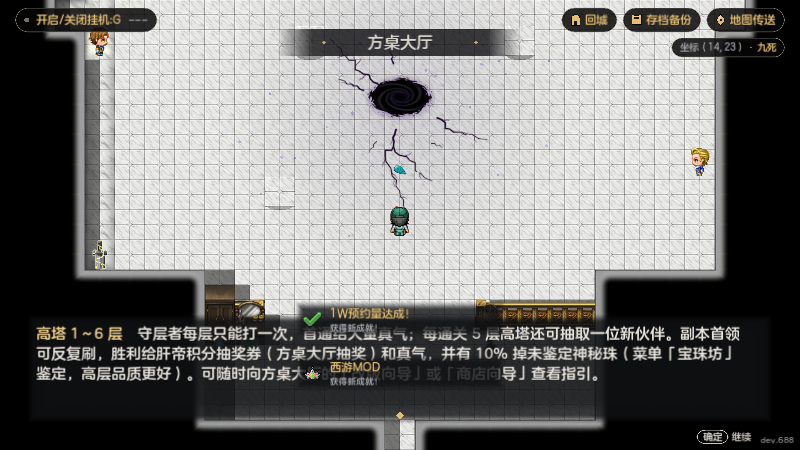
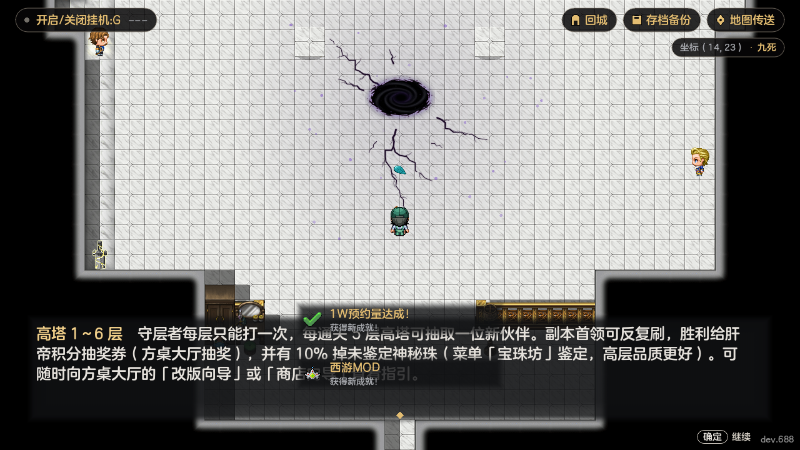
T139: 删改EV071与进大厅里程碑真气道法说法（D131烙印取代真气）
执行者: 小A
核查: 待审查

diff --git a/00_项目管理/交付/luiluu_xa-t139-hall-residue.md b/00_项目管理/交付/luiluu_xa-t139-hall-residue.md
@@ -7,18 +7,17 @@
 
 ## 2026-11-17 【小A·未经交叉核查】T139 天启篇大厅残句清理：EV071 旧说明与进大厅里程碑（dev.待定）
 
-- **依据与口径**：承接 T133（`dev.687`）核查清单与协调回复（`msg_0b2b9529d322`），清理 `Map004` 事件 `71`（改版向导）在天启篇存档下遗留的西游与旧版过时说法，并为 `XGuide` 进大厅区段里程碑补出天启篇版本；不触碰牢妲 EV062、烙印文本与 `XGuide.advice_texts`，西游存档与原版参照表 `guide_atlas.json` 保持原样。
+- **依据与口径**：承接 T133（`dev.687`）核查清单、协调回复（`msg_0b2b9529d322`）及追加口径（`task_9e92fbccbc13`／D131：天启篇中真气已被「烙印」取代且烙印尚在分批制作，EV071 与 `guide.gd` 里讲真气乘伤害、境界、闭关突破、领属性等句子直接删除或改为不点名泛称，不单写一份真气现状说明，道法也不单独介绍），清理 `Map004` 事件 `71`（改版向导）在天启篇存档下遗留的西游与旧版过时说法，并为 `XGuide` 进大厅区段里程碑补出天启篇版本；不触碰牢妲 EV062、烙印文本与 `XGuide.advice_texts`，西游存档与原版参照表 `guide_atlas.json` 保持原样。
 - **代码开关对照判断**（拿不准系统按代码实际开关落笔）：
-  - `XZhenqi.APPLY_TO_DAMAGE == false`：当前版本真气不直接乘算伤害，仅用于闭关突破并领取属性与道法奖励（去掉所有「真气乘算伤害／×√(1＋真气÷10)／真气打穿固定减伤」）。
-  - `XTianqiBrand.ENABLED == false`、`XTianqiBase.PHASE4 == false`：未开启烙印与 D129 加伤，本文案不提前写入。
+  - **D131（烙印取代真气）与 `XTianqiBrand.ENABLED == false`／`XTianqiBase.PHASE4 == false`**：真气已被「烙印」取代（烙印开关尚关且在分批制作中）；按追加口径，EV071 与 `guide.gd` 里原讲真气、境界、闭关突破、领属性／道法、本命兵／兵仙／神兵试炼的条目全部删掉或替换为不点名泛称（「阶段成长」「试炼」「专精解锁」等），既不写过时的真气现状说明，也不提前写入未开启的烙印与 D129 加伤。
   - `XPower.SHOW_POWER_UI == false`、`XTianqiGear.ENABLED == true`（`ARTIFACT_CAP == true`）、`XTianqiAffixRoll.SKIP_HIGH_ROWS == true`：隐藏人物／装备战力评分，改为 13 个装备栏与神器栏（神武改为神器；心之钢／狂妄有效成长上限 10 阶／头顶上限 +300%，黎明—破晓与禁锢之皇冕不可装备），不掷出原版随机词缀行与神话／混沌神话词条。
   - `XTianqiLedger.NO_PILLS == true`、`XFabaoFeed.NO_PILLS == true`：下架且禁用原版属性丹、淬元丹与法宝经验丹，通用法宝改为喂食装备升级。
   - `XTianqiSkills.ids`（`skill_rework.json`）：五只猫猫、可莉、花橙、落芸、利姆露、初代萌王、赛维里昂圣剑、人形自动人偶为「不开放」；五条悟须先解锁「最强之名」；苍龙破晓、徐凤年、胡桃按各自档位开放，云裳属于「强者」（不计入超强者名单）。
   - `XEnemy.boss_attribute_rate`／`XTianqiHorsemen`：首领按前 4 格实际出战超强者人数 `N` 提八项 `1＋20%×N`、偶数回合霸体另乘 `1＋20%×N`（助力位与后备不计入）；36 层四骑士不吃霸体改用阶段规则，31～36 层其余首领照常。
   - `XTextFix`：运行期已将 `Map004` 原文 `Boss` 预先替换为 `首领`，规则匹配与展示以 `XDB.map(4)` 运行态为准；所有 `CHOICE_RULES[71]` 严格保持选项数量与下标不变（`402` 分支零改动）。
 - **玩家可见**：
-  1. 方桌大厅「改版向导」（EV071）在天启篇存档下，33 处对话与 6 处选单已按天启篇当前机制改写或清理，不再出现 `Boss`、`神武`、`12.27 移植`、`×0.01`、`真气乘算伤害`、`境界／大境界`、`战力（旧入口名）`、`赌场`、`用丹` 等过时残句。
-  2. 首次进入方桌大厅（及后续进新层段）弹出的区段里程碑在天启篇存档下标题改为 `高塔 N～M 层`（原 `神魔之塔` 仅留西游档），并更新 `a`～`g` 七段说明（含每 5 层抽角色、通用祝福石、秘境被动书与心之钢／狂妄、固定减伤、34～36 层与号卷）；西游档完全不变。
+  1. 方桌大厅「改版向导」（EV071）在天启篇存档下，对话与选单已按天启篇当前机制改写或清理，不再出现 `Boss`、`神武`、`12.27 移植`、`×0.01`、`真气`、`道法`、`闭关`、`境界／大境界`、`本命兵／兵仙／神兵试炼`、`战力（旧入口名）`、`赌场`、`用丹` 等过时残句。
+  2. 首次进入方桌大厅（及后续进新层段）弹出的区段里程碑在天启篇存档下标题改为 `高塔 N～M 层`（原 `神魔之塔` 仅留西游档），并更新 `a`～`g` 七段说明（含每 5 层抽角色、阶段成长入口与试炼、通用祝福石、秘境被动书与心之钢／狂妄、固定减伤、34～36 层与号卷，不含真气／道法／闭关／本命兵说明）；西游档完全不变。
 - **EV071 改前 → 改后对照**（`modes/xiyou/core/tianqi_hall_text.gd`，仅对 `XTianqi.active` 生效，开关 `XTianqiHallText.ENABLED`）：
 
 | 节点 | 改前（T133 后运行态） | 改后（T139） |
@@ -44,42 +43,50 @@
 | MSG [290] | ……不套用全部普通战力构成…… | ……不套用全部常规增伤乘区…… |
 | MSG [298] | 首领按入场时\c[4]实际出战的超强者人数N\c[0]提高难度：八项属性全程乘\c[4]1＋20%×N\c[0]。后备不计入…… | 首领按入场时前4格\c[4]实际出战的超强者人数N\c[0]提高难度：八项属性全程乘\c[4]1＋20%×N\c[0]。第5格助力位与后备均不计入…… |
 | MSG [300] | 第2、4、6…回合进入\c[4]霸体\c[0]，免疫控制与技能封印；本回合首领伤害另乘1＋20%×N…… | 一般首领第2、4、6…回合进入\c[4]霸体\c[0]，免疫控制与技能封印，且该回合伤害另乘\c[4]1＋20%×N\c[0]（N为0时仍有霸体、无额外倍率）；36层四骑士不吃霸体、改用各自阶段规则，31～36层其余首领照常。 |
-| CHOICE [370] | 项2 `赌场与丹药` | 项2 `抽奖与法宝喂养` |
-| MSG [378] | 真气路线系数：……真气（伤害加成）和境界奖励按「修行」页实际数值查看。 | 天启篇真气系数：……积攒的真气用于闭关突破、领取属性与道法奖励（当前不直接乘算伤害）。 |
-| MSG [382] | 真气达到大境界瓶颈……打开菜单\c[4]真气\c[0]挑战心魔或天劫…… | 真气攒至突破瓶颈后……打开菜单\c[4]真气\c[0]或大厅「闭关」挑战瓶颈之战…… |
-| MSG [384] | 突破按境界获得固定奖励和自选奖励…… | 每次突破都会按阶段获得固定奖励与自选奖励…… |
-| MSG [396] | ……没有到境界瓶颈，也可按菜单条件参加试炼。 | ……未到突破瓶颈时，也可按菜单条件参加试炼。 |
+| CHOICE [370] | `['真气与闭关', '种族祝福', '赌场与丹药', '换装与技能信息', '测试模式与GM工具', '返回']` | `['成长与试炼', '种族祝福', '抽奖与法宝喂养', '换装与技能信息', '测试模式与GM工具', '返回']` |
+| CHOICE [372] | `['积累与查看', '闭关与奖励', '本命兵与灵根', '神兵试炼', '返回']` | `['成长查看说明', '阶段挑战说明', '专精解锁说明', '武器试炼说明', '返回']` |
+| MSG [374] | 菜单\c[4]真气\c[0]可操作突破；状态界面「修行」页看挑战评估……真气由胜利…… | 角色的阶段成长、挑战评估、必备属性与建议，均可在状态界面「修行」与「修行·详细」页查看。 |
+| MSG [376] | 守层者每层只能打一次；首通真气为层数×10×路线系数……副本首领、神兵试炼可反复刷…… | 守层者每层仅可首通一次，副本首领与各类试炼均可反复挑战，对应成长收益随当前难度档位结算。 |
+| MSG [378] | 真气路线系数：……真气（伤害加成）和境界奖励按「修行」页实际数值查看。 | 天启篇按\c[4]寻常、艰险、九死、炼狱、证道\c[0]五档难度推进；长线阶段养成体系仍在迭代替换中，具体以界面实际开放项为准。 |
+| MSG [382] | 真气达到大境界瓶颈……打开菜单\c[4]真气\c[0]挑战心魔或天劫…… | 角色满足阶段门槛后，将其编入出战队伍即可在大厅或菜单中挑战对应的阶段晋升战斗；须存活至胜利才会生效。 |
+| MSG [384] | 突破按境界获得固定奖励和自选奖励，自选属性或随机道法…… | 阶段成长与突破奖励机制正随版本重制接入中，已有待选项目可按菜单或状态页提示领取。 |
+| MSG [388] | 突破选择随机道法，有机会领悟本命兵、灵根…… | 武器与元素相关的长线专精解锁仍在调整中，暂不在此单独展开，后续将以天启篇重制后的正式规则为准。 |
+| MSG [390] | 指定选项在领悟本命兵或灵根时出现，已经学到的类别不能在真气菜单随意重选…… | 已解锁的指定类别会直接生效，未解锁项须先击败对应守关或试炼首领后再行开启。 |
+| MSG [394] | 菜单\c[4]真气\c[0]中进入神兵试炼，降服对应兵仙后解锁本命兵指定…… | 各类武器试炼强度参考近期已通过的守层者进度，降服对应试炼首领即可解锁相应条目。 |
+| MSG [396] | 试炼可反复挑战……各有对应兵仙。没有到境界瓶颈，也可按菜单条件参加试炼。 | 试炼可反复挑战；匕首、钝器、法杖、弓弩、枪械、书、暗器各设对应试炼，按界面条件即可参加。 |
 | MSG [434] | 旧档首次逐人调整同样免费…… | 每名角色首次逐人换族免费，之后每次成功调整消耗忘情水×1…… |
 | CHOICE [442] | `['赌场批量抽奖', '丹药批量使用', '返回']` | `['大厅批量抽奖', '丹药下架与法宝喂养', '返回']` |
 | MSG [453] | 背包中对人物使用支持批量的属性丹或法宝经验丹…… | 天启篇已下架原版属性丹、淬元丹与法宝经验丹（不上架且不可使用）；通用法宝改为喂食装备升级。 |
 | MSG [486] / [488] | 设置中开启\c[4]测试模式\c[0]须联网输入作者提供的密码。本次启动验证有效30分钟……GM工具同样需要验证。 | 设置中的\c[4]测试模式\c[0]与\c[4]GM 工具\c[0]仅在持有本地测试解锁文件的开发测试环境开放，取消了原版联网密码与30分钟验证；正常游戏版本默认锁定。 |
 | CHOICE [500] | 项3 `移植角色与停用角色` | 项3 `开放与停用角色` |
-| MSG [526] | 装备、词条、真气与难度加成各自进入独立乘区，不再无上限叠乘溢出。 | 装备、词条、档位协力与难度加成各自进入独立乘区，不再沿用旧版的五乘区叠乘。 |
+| CHOICE [504] | `['惩罚改成比例', '逐层压制与终局', '强弱分档与预算', '真气与天道补偿', '洪荒路线', '返回']` | `['五档难度与上阵', '弱者协力与终局', '常驻战斗规则', '超额行动与体系', '号卷与规则变动', '返回']` |
+| MSG [526] | 装备、外部加成、真气与难度加成各自进入独立乘区，不再无上限叠乘溢出。 | 装备、词条、档位协力与难度加成各自进入独立乘区，不再沿用旧版的五乘区叠乘。 |
 | MSG [528] | 每名出战超强者使首领八项属性全程提高20%；偶数回合进入霸体，并额外提高伤害…… | 每名前4格实际出战的超强者使一般首领八项属性全程提高20%，偶数回合进入霸体且伤害另乘1＋20%×N（助力位不计，四骑士不吃霸体）…… |
-| MSG [532] | 原版的「超额行动伤害」改为\c[4]真气\c[0]：……伤害×√(1＋真气÷10)，不再只靠堆再动。 | 天启篇下溢出的再动、守层首通与胜利、副本首领与神兵试炼胜利仍会积累\c[4]真气\c[0]，当前仅用于闭关突破并领取属性与道法奖励（不额外乘算伤害）。 |
-| MSG [534] | 主菜单新增\c[4]「真气」\c[0]：随时查看各人境界，选择突破奖励…… | 主菜单\c[4]「真气」\c[0]与大厅右下「闭关」互通：随时可查看各人真气与突破进度，领取突破奖励…… |
+| MSG [532] | 原版的「超额行动伤害」改为\c[4]真气\c[0]：……伤害×√(1＋真气÷10)，不再只靠堆再动。 | 天启篇取消了旧版的超额行动增伤机制；战斗中再动与追加行动按常规每回合最多额外触发1次。 |
+| MSG [534] | 主菜单新增\c[4]「真气」\c[0]：随时查看各人境界，选择突破奖励…… | 人物面板与状态界面「修行·详细」页可随时核对当前成长、难度对照与属性达标情况。 |
+| MSG [536] | \c[4]天道加持\c[0]：高难度下我方造成的伤害按进度放大，洪荒12层×1…… | 原版长线成长入口正按天启篇设计分批替换中，本向导暂只列出已稳定生效的通用玩法与规则。 |
 | MSG [572] | ……（新增再动、闪避、全属性）……深渊档位或塔层越高…… | ……（含再动、闪避、全属性）……所在层数越高（13、19、26层起）…… |
 | MSG [576] | 旧的四档通用书不再获取，已经学会或背包里的照常有效。 | 天启篇开局不再掉落或兑换旧版四档通用被动书，统一通过秘境被动书体系获取对应加成。 |
 | MSG [580] | 12.27移植角色的\c[4]异界制约\c[0]已取消；只有\c[4]拳一\c[0]的被动仍让造成的结算伤害×0.01，治疗不受影响。 | 天启篇取消了旧版的「异界制约」与旧版伤害压制；所有开放伙伴均按天启篇强弱档位与技能规则统一结算。 |
 | MSG [582] | 花橙、落芸、苍龙破晓、徐凤年、胡桃、利姆露、初代萌王、赛维里昂圣剑、人形自动人偶已停用，不能招募、出战或从仓库取出…… | 五只猫猫、可莉、花橙、落芸、利姆露、初代萌王、赛维里昂圣剑、人形自动人偶暂未进入天启篇候选池；五条悟须先解锁「最强之名」，苍龙破晓、徐凤年、胡桃则按各自档位正常开放。 |
-| MSG [623] | ……装备检索、批量抽奖与用丹、真气突破…… | ……装备检索、批量抽奖、法宝喂养、真气突破…… |
+| MSG [623] | ……装备检索、批量抽奖与用丹、真气突破…… | ……装备检索、批量抽奖、法宝喂养、宝珠坊、自动挂机与图鉴等均已内置。 |
 
 - **`guide.gd` 进大厅区段里程碑改前 → 改后**（`XGuide.milestone_title`／`milestone_intro`／`milestone_texts`，仅 `TIANQI_MILESTONE_ENABLED` 且 `XTianqi.active` 生效，且跳过 `_power_line`）：
 
 | 区段 | 改前（西游口径） | 改后（天启篇） |
 | --- | --- | --- |
 | 标题 `a`～`g` | `神魔之塔 1～6 层` … `神魔之塔 26～33 层` | `高塔 1～6 层` … `高塔 26～33 层` |
-| `a`（1～6层） | ……（方桌大厅赌场换积分）和真气，并有 10% 掉未鉴定神秘珠……不知道下一步做什么，可以问方桌大厅入口的「商店向导」→「下一步建议」。 | 守层者每层只能打一次，首通给大量真气；每通关 5 层高塔还可抽取一位新伙伴。副本首领可反复刷，胜利给肝帝积分抽奖券（方桌大厅抽奖）和真气，并有 10% 掉未鉴定神秘珠（菜单「宝珠坊」鉴定，高层品质更好）。可随时向方桌大厅的「改版向导」或「商店向导」查看指引。 |
-| `b`（7～12层） | 真气攒到大圆满后，打开菜单「真气」（或方桌大厅「闭关」）打瓶颈之战突破大境界…… | 真气攒至突破瓶颈后，打开菜单「真气」（或方桌大厅「闭关」）挑战瓶颈之战，可按阶段领取固定与自选突破奖励；还可挑战神兵试炼，降服兵仙后即可指定本命兵。本段副本首领起也会掉落Ⅱ阶通用祝福石。 |
-| `c`（13～15层） | 首通守层者可以获得真气；副本首领可以反复挑战。积累真气、突破境界、学习道法，提升队伍能力。 | 首通守层者与反复挑战副本首领均可积累真气，用于闭关突破并领取属性与道法奖励（当前不直接乘算伤害）。13层起深渊抽书更容易出高等级秘境被动书；13层不朽深渊的未知存在还会掉落神器「心之钢」与「狂妄」。 |
+| `a`（1～6层） | ……（方桌大厅赌场换积分）和真气，并有 10% 掉未鉴定神秘珠……不知道下一步做什么，可以问方桌大厅入口的「商店向导」→「下一步建议」。 | 守层者每层只能打一次，每通关 5 层高塔可抽取一位新伙伴。副本首领可反复刷，胜利给肝帝积分抽奖券（方桌大厅抽奖），并有 10% 掉未鉴定神秘珠（菜单「宝珠坊」鉴定，高层品质更好）。可随时向方桌大厅的「改版向导」或「商店向导」查看指引。 |
+| `b`（7～12层） | 真气攒到大圆满后，打开菜单「真气」（或方桌大厅「闭关」）打瓶颈之战突破大境界…… | 进入中前段后，可留意大厅与菜单中的阶段成长入口并按条件挑战试炼；本段副本首领起也会掉落Ⅱ阶通用祝福石。 |
+| `c`（13～15层） | 首通守层者可以获得真气；副本首领可以反复挑战。积累真气、突破境界、学习道法，提升队伍能力。 | 13层起深渊抽书更容易出高等级秘境被动书；13层不朽深渊的未知存在还会掉落神器「心之钢」与「狂妄」。 |
 | `d`（16～18层） | 打开状态界面「修行·详细」页的难度对照……再通过装备、被动和真气调整队伍。 | 打开状态界面「修行·详细」页的难度对照，核对暴击率、爆伤、命中、攻击与结算伤害的难度影响，再通过装备、词条、秘境被动书与种族祝福调整队伍。 |
 | `e`（19～21层） | 专属掉落集中在深渊副本：同一个首领可以反复刷，书上写有来源。 | 专属掉落集中在深渊副本：同一个首领可以反复刷，书上写有来源；19层起抽秘境被动书更容易出高等级。 |
 | `f`（22～25层） | 后段敌人有固定减伤：打不穿就提高攻击、技能增伤、暴击、真气或固定减伤穿透…… | 后段敌人有固定减伤：打不穿时优先提高攻击、元素与技能增伤、暴击爆伤、破防或固定减伤穿透；结算类倍率也在固定减伤之前计算。 |
 | `g`（26～33层） | 终点难度按「强者」标定，强者需要更多养成；「修行·详细」页的难度对照可以帮你判断差在哪。 | 高塔后段难度按本档难度系数与强弱档位结算，33层之后仍会延续至34～36层；炼狱、证道难度还可在不朽存在处获取号卷。「修行·详细」页的难度对照可以帮你判断差在哪。 |
 
 - **测试与验证**（全部单跑前景通过，`--audio-driver Dummy`）：
-  - `语法检查.py`：1009 个 `.gd`，0 个问题；
-  - `tests/xiyou_guide.tscn`：76／76 通过（新增 `_tianqi_milestone` 校验 `a`～`g` 天启文案、回退开关 `XGuide.TIANQI_MILESTONE_ENABLED`、西游档不变与真地图进大厅首弹「高塔 1～6 层」）；
+  - `语法检查.py`：1008 个 `.gd`，0 个问题；
+  - `tests/xiyou_guide.tscn`：76／76 通过（新增 `_tianqi_milestone` 校验 `a`～`g` 天启文案、零真气／道法／闭关／本命兵残留、回退开关 `XGuide.TIANQI_MILESTONE_ENABLED`、西游档不变与真地图进大厅首弹「高塔 1～6 层」）；
   - `tests/xiyou_tianqi_hall.tscn`：72／72 通过（新增 `ev71_t139_no_residue` 零残留扫描、`choice_size` 下标校验与 `ev71_t139_wording_locked`）；
   - `tests/xiyou_tianqi_trim.tscn`：44／44 通过；
   - `tests/xiyou_honghuang_reward.tscn`：311／311 通过；
@@ -97,13 +104,13 @@
 ## 交接板
 
 - 下一步：总装合并后可安排小o／cc 核查 `tianqi_hall_text.gd` 与 `guide.gd`，并按本单「可优化」决定是否另开 `advice_texts`／状态页文本与 `enemy.gd:38` 超强者计数单。
-- 用户试玩说明：天启篇档首次进方桌大厅会见到「高塔 1～6 层」新提示；与大厅「改版向导」对话中装备／真气／角色开放／首领规则均已对齐天启篇现状。
-- 先想一想／审单说明：原 `EV071` 对 `超强者 Boss 加成`、`真气乘算伤害`、`境界`、`战力` 的说明源自原版重制框架，天启篇中真气不乘伤害（`APPLY_TO_DAMAGE == false`）、战力面板已隐藏、12.27 角色按 `skill_rework.json` 档位开放且四骑士不吃霸体；经协调确认（`msg_0b2b9529d322`）后全数按当前代码开关与设计总览 v0.4 口径重写。
+- 用户试玩说明：天启篇档首次进方桌大厅会见到「高塔 1～6 层」新提示；与大厅「改版向导」对话中装备／成长／角色开放／首领规则均已对齐天启篇现状，且已去除待被烙印替代的真气与道法旧说明。
+- 先想一想／审单说明：原 `EV071` 对 `超强者 Boss 加成`、`真气乘算伤害`、`境界`、`战力` 的说明源自原版重制框架，天启篇中真气将被「烙印」替代（D131，当前开关未开）、战力面板已隐藏、12.27 角色按 `skill_rework.json` 档位开放且四骑士不吃霸体；经协调两轮口径确认（`msg_0b2b9529d322` 与 `task_9e92fbccbc13`）后全数按现状与不点名泛称重写。
 - 截图证据（`00_项目管理/归档/交付截图/luiluu_xa-t139-hall-residue/`）：
-  - `guide_milestone_a_before.png` → `guide_milestone_a_after.png`（进大厅「神魔之塔 1～6 层」→「高塔 1～6 层」）
+  - `guide_milestone_a_before.png` → `guide_milestone_a_after.png`（进大厅「神魔之塔 1～6 层」→「高塔 1～6 层」且移除真气说法）
   - `ev071_equip_menu_before.png` → `ev071_equip_menu_after.png`（`战力／神武` → `品质／神器` 与说明页）
   - `ev071_shenwu_before.png` → `ev071_shenwu_after.png`（神器／打造分页前导；`[222]` 神武→神器规则另由 `ev71_t139_wording_locked` 与运行态导出核验）
-  - `ev071_zhenqi_before.png` → `ev071_zhenqi_after.png`（真气 `×√` 伤害加成 → 仅用于闭关突破领奖励）
+  - `ev071_zhenqi_before.png` → `ev071_zhenqi_after.png`（真气 `×√` 伤害加成 → 取消旧版超额行动增伤机制，不单写真气／道法）
   - `ev071_1227_before.png` → `ev071_1227_after.png`（`12.27 移植`／`×0.01` → 取消异界制约与旧版伤害压制）
   - `ev071_boss_before.png` → `ev071_boss_after.png`（首领超强者人数补入「前 4 格、助力位与后备均不计入」）
 
